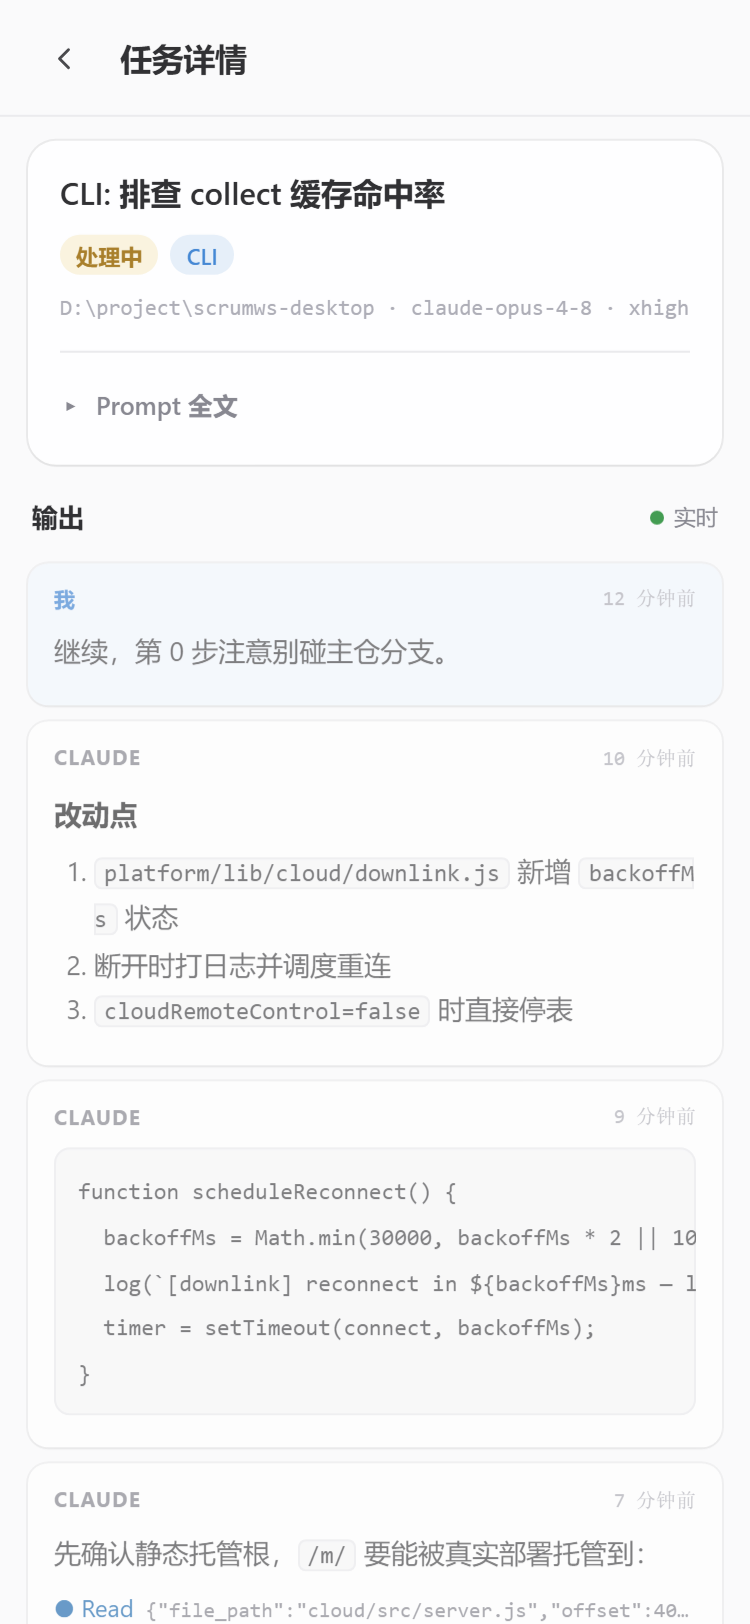
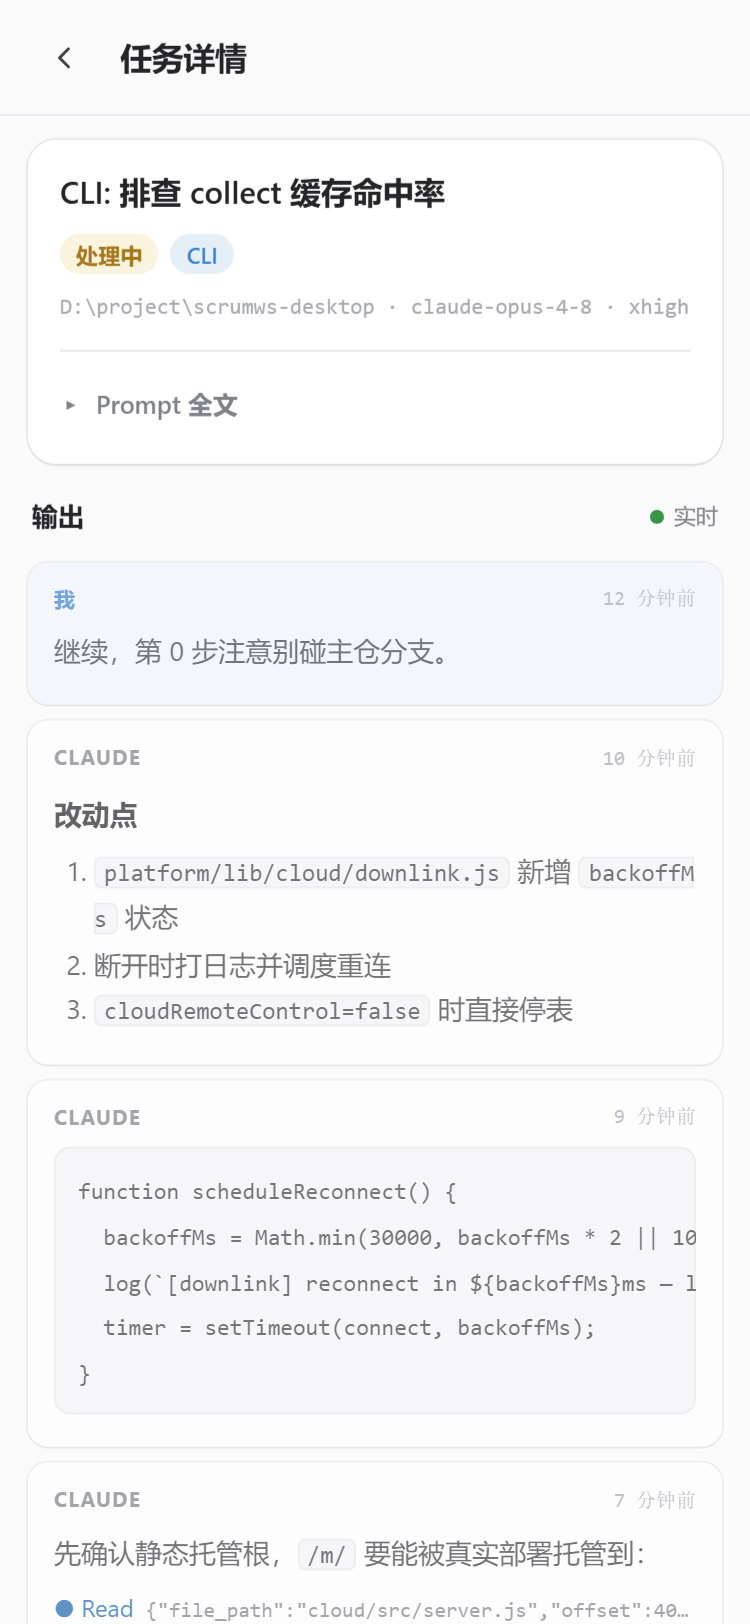
手机端 round-2 补充：详情页显示定时执行标（scheduledAt）
新建的定时任务落进「待定」桶后，详情页顶部加定时标（.dt-sched，amber pill）
显示排定时刻，让用户看得到排到几点。round2-ui e2e 加断言，9/9 PASS。

diff --git a/cloud/public/m/m.css b/cloud/public/m/m.css
@@ -269,6 +269,9 @@ a.mitem:active{transform:scale(.985)}
 .dt-tags{display:flex;align-items:center;gap:6px;flex-wrap:wrap;margin-top:10px}
 .dt-meta{font-family:var(--mono);font-size:11px;color:var(--dim);margin-top:8px;
   overflow:hidden;text-overflow:ellipsis;white-space:nowrap}
+.dt-sched{display:inline-flex;align-items:center;gap:5px;margin-top:9px;font-size:12px;font-weight:600;
+  color:var(--amber);background:var(--amberS);border-radius:999px;padding:4px 11px}
+.dt-sched svg.ic{width:14px;height:14px}
 details.dt-prompt{margin-top:12px;border-top:1px solid var(--hair);padding-top:10px}
 details.dt-prompt summary{font-size:12.5px;font-weight:600;color:var(--mut);cursor:pointer;
   min-height:32px;display:flex;align-items:center;list-style:none}

diff --git a/cloud/public/m/m.js b/cloud/public/m/m.js
@@ -663,6 +663,7 @@ async function viewTask(machineId, taskKey) {
       <div class="tc-title">${escapeHtml(title)}</div>
       <div class="dt-tags" id="dtTags"></div>
       <div class="dt-meta" title="${escapeAttr(d.cwd || '')}">${escapeHtml(d.cwd || '')}${d.model ? ' · ' + escapeHtml(d.model) : ''}${d.effort ? ' · ' + escapeHtml(d.effort) : ''}</div>
+      ${d.scheduledAt ? `<div class="dt-sched">${clockIcon()} 定时执行 · ${escapeHtml(d.scheduledAt)}</div>` : ''}
       ${d.prompt ? `<details class="dt-prompt"><summary>Prompt 全文</summary><div class="prompt-box">${escapeHtml(d.prompt)}</div></details>` : ''}
     </section>
     <div class="stream-head">